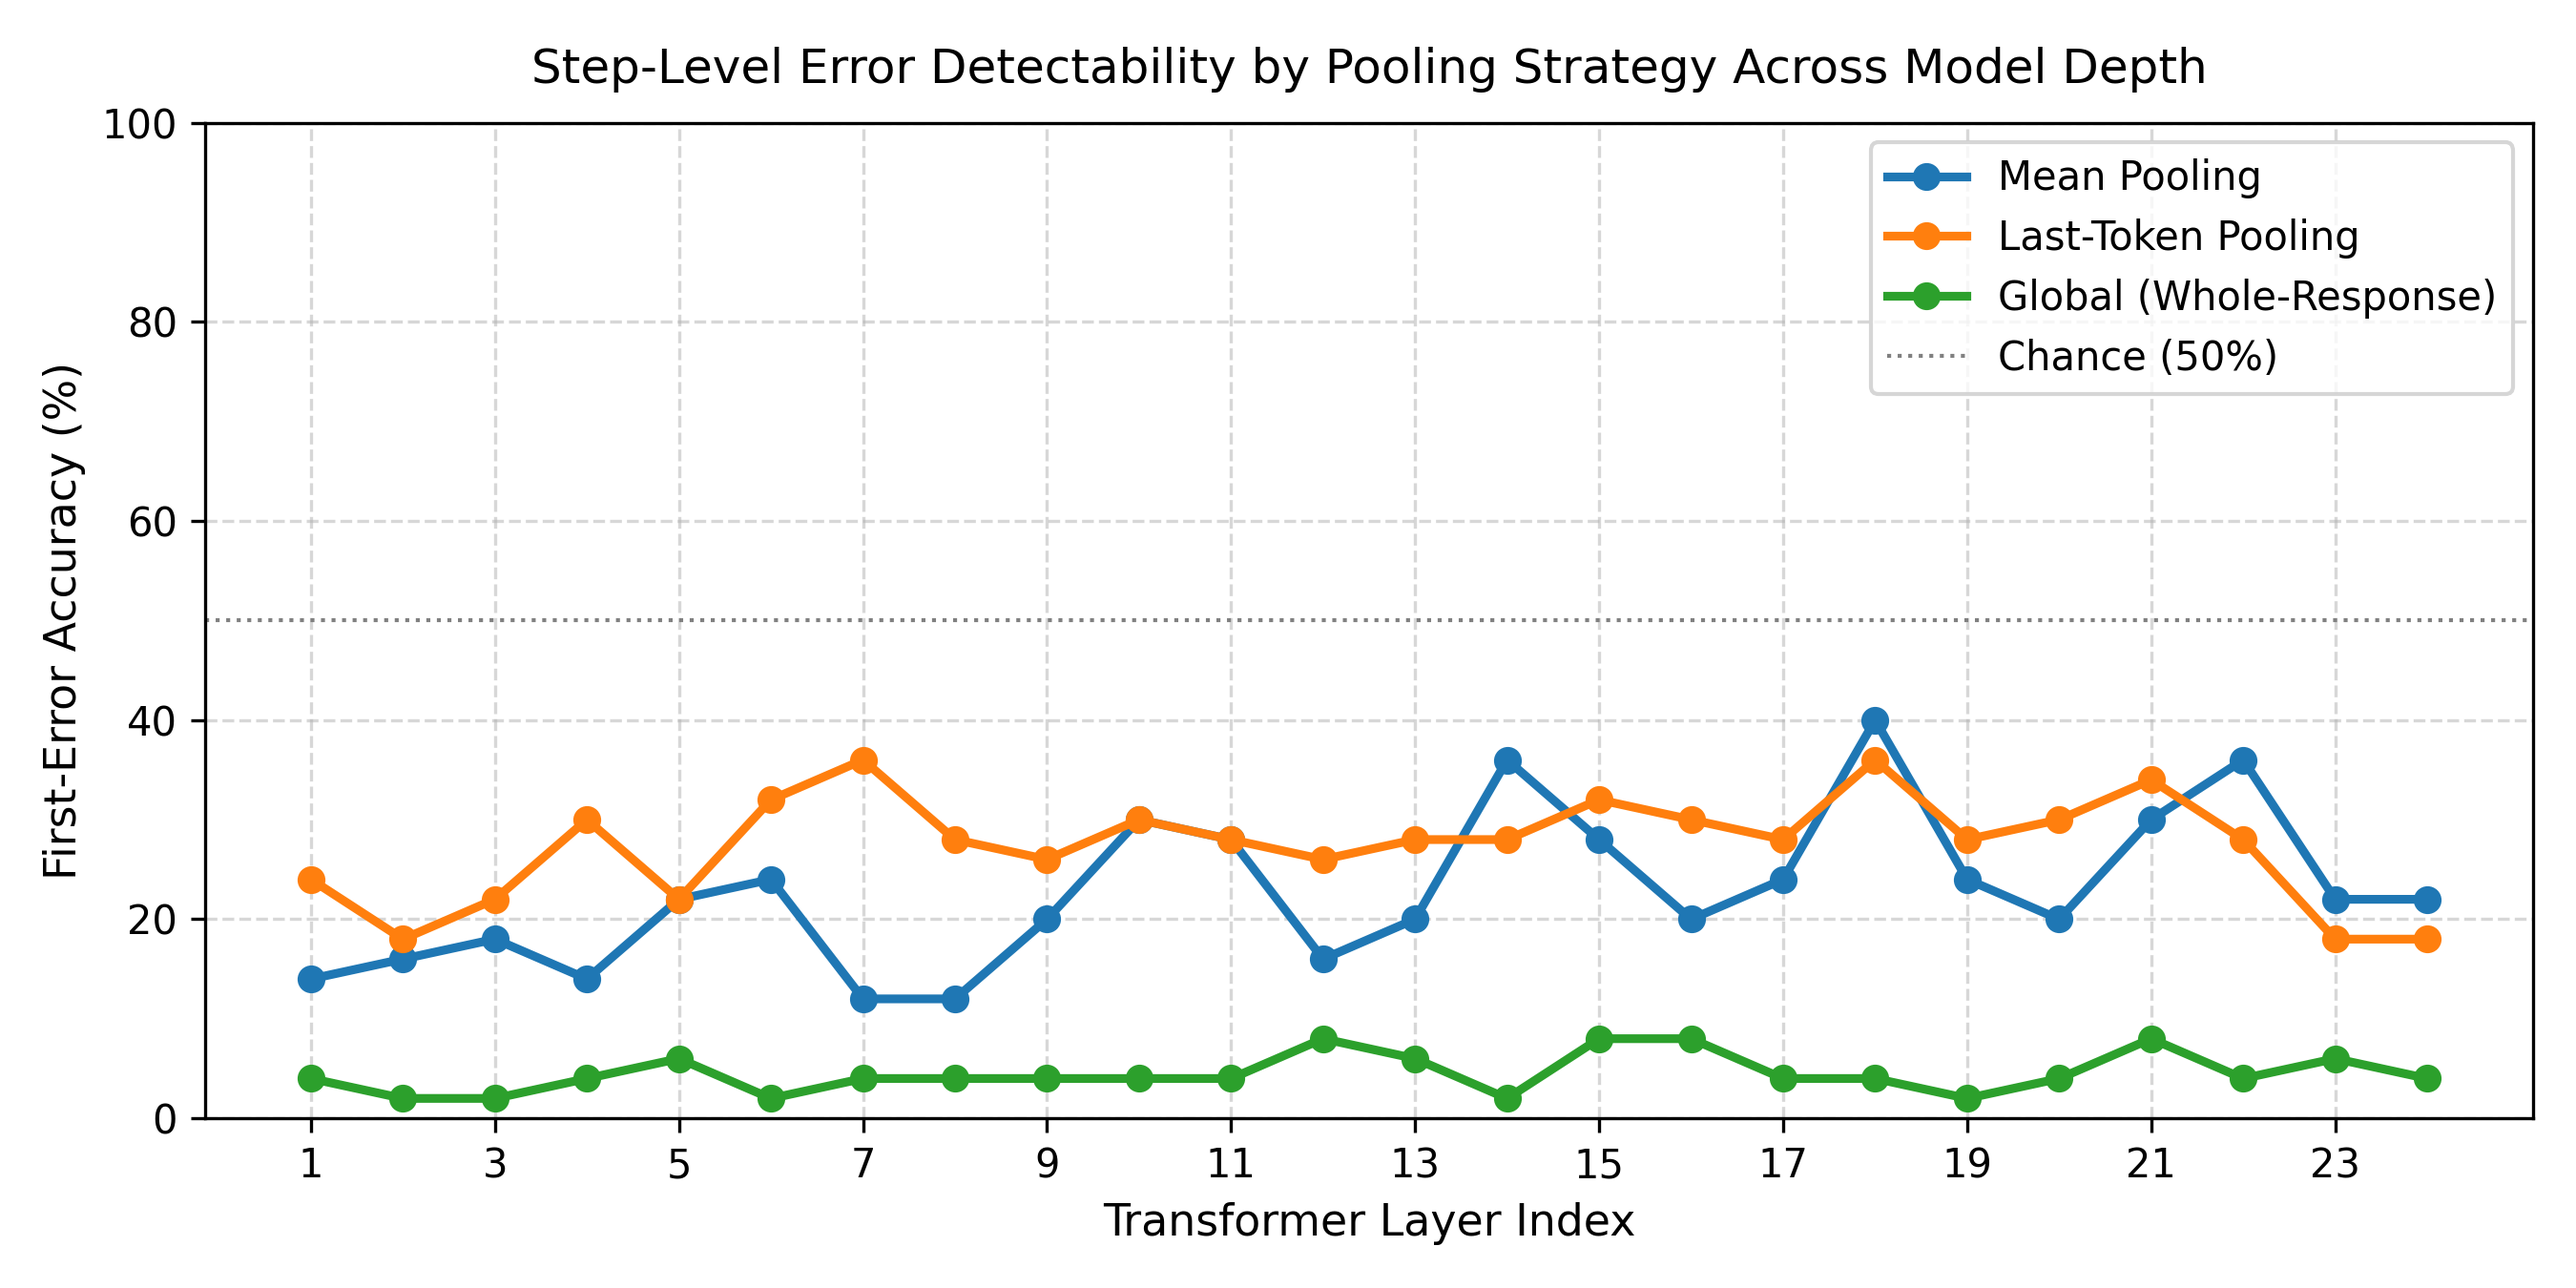
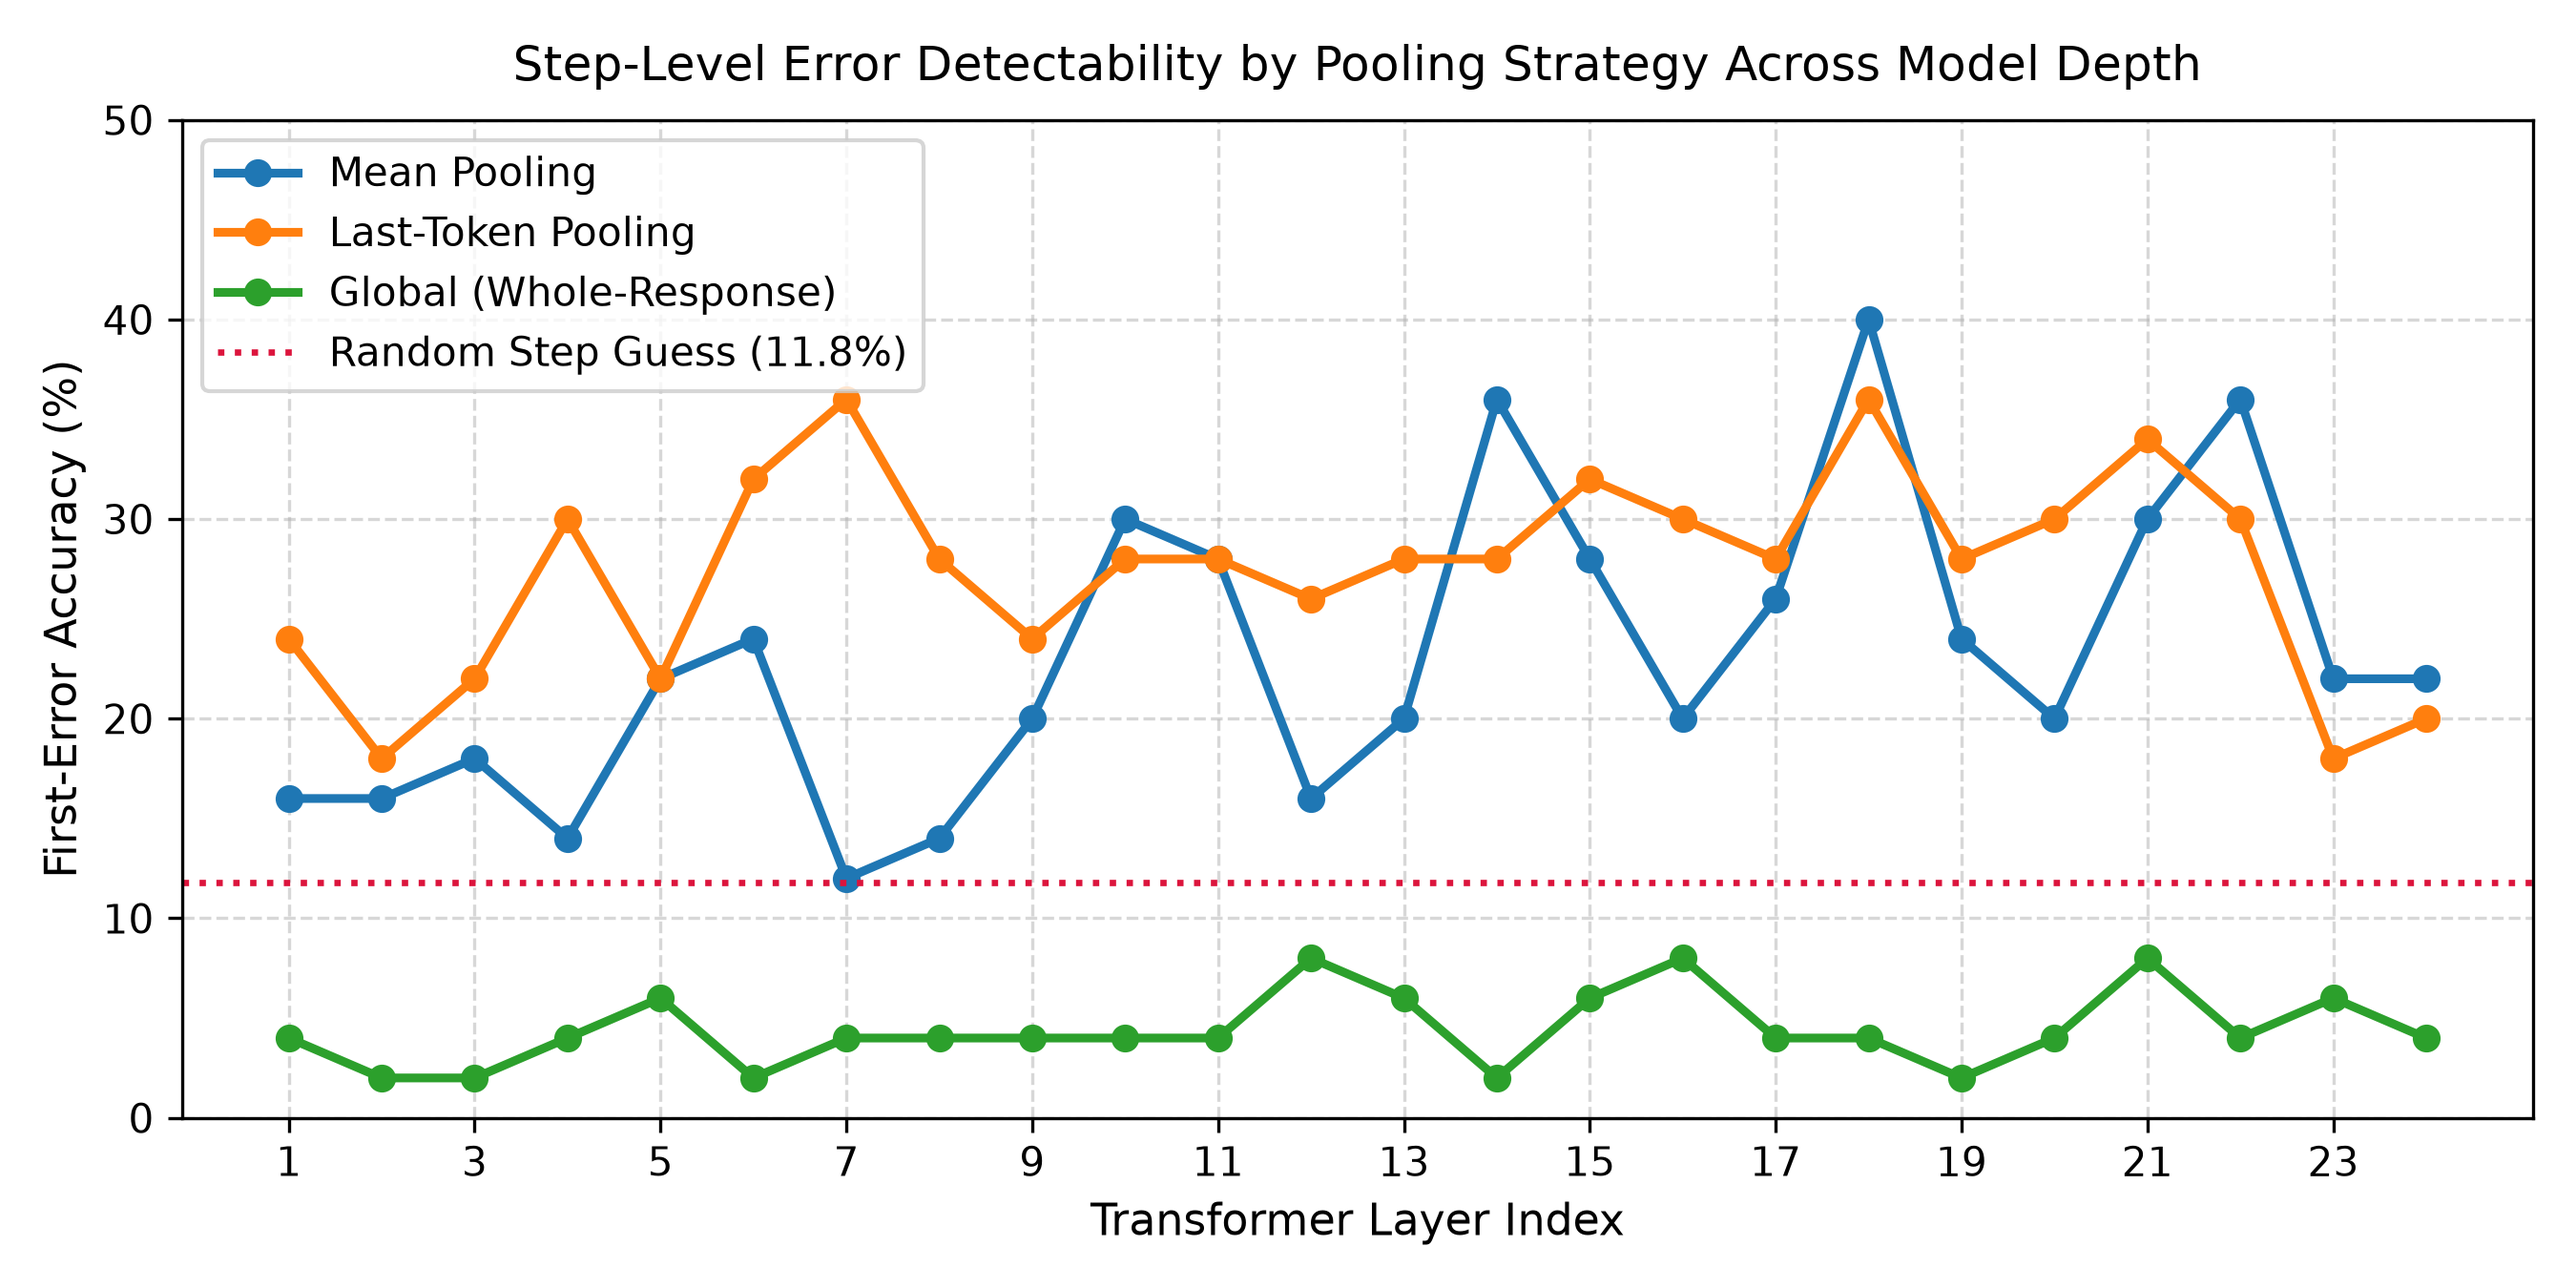
update baseline for graph

diff --git a/plot_pooling_ablation.py b/plot_pooling_ablation.py
@@ -1,8 +1,7 @@
 """
 plot_pooling_ablation.py
-------------------------
 Member 1: Spatial & Pooling Dynamics Track
-Step-INSPECTOR project (AI60213, IIT Kharagpur)
+Step-INSPECTOR project (AI60213)
 
 Plots the Mean vs. Last-token vs. Global pooling ablation across all 24
 layers of Qwen2.5-0.5B-Instruct, producing a figure for the ICLR report
@@ -38,10 +37,16 @@ def main():
     n_layers = train_cached["step_embeddings_mean"].shape[1]
     layers = list(range(1, n_layers + 1))
 
-    data_by_strategy = {s: {"fe_acc": [], "verdict_acc": []} for s in strategies}
+    data_by_strategy = {s: {"fe_acc": [], "verdict_acc": [], "joint_acc": []} for s in strategies}
     for r in results:
         data_by_strategy[r.strategy]["fe_acc"].append(r.first_error_acc)
         data_by_strategy[r.strategy]["verdict_acc"].append(r.verdict_acc)
+        data_by_strategy[r.strategy]["joint_acc"].append(r.joint_acc)
+
+    # Compute exact random step-guess baseline on faulty test examples: E[1 / (num_steps + 1)]
+    faulty_mask = test_cached["gold_first_errors"] > 0
+    num_valid_steps = (test_cached["step_token_lengths"][faulty_mask] > 0).sum(dim=1).float()
+    random_baseline = (1.0 / (num_valid_steps + 1.0)).mean().item() * 100
 
     # ---- Plot: First-Error Accuracy across layers ----
     plt.figure(figsize=(9, 4.5))
@@ -58,7 +63,13 @@ def main():
             label=labels[strategy],
         )
 
-    plt.axhline(y=50, color="gray", linestyle=":", lw=1, label="Chance (50%)")
+    plt.axhline(
+        y=random_baseline,
+        color="crimson",
+        linestyle=":",
+        lw=1.6,
+        label=f"Random Step Guess ({random_baseline:.1f}%)",
+    )
     plt.title(
         "Step-Level Error Detectability by Pooling Strategy Across Model Depth",
         fontsize=12,
@@ -67,23 +78,29 @@ def main():
     plt.xlabel("Transformer Layer Index", fontsize=11)
     plt.ylabel("First-Error Accuracy (%)", fontsize=11)
     plt.xticks(range(1, n_layers + 1, 2))
-    plt.ylim(0, 100)
+    plt.ylim(0, 50)
     plt.grid(True, linestyle="--", alpha=0.5)
-    plt.legend(frameon=True, loc="best")
+    plt.legend(frameon=True, loc="upper left")
     plt.tight_layout()
     plt.savefig("pooling_ablation.png", dpi=300)
-    print("Saved pooling ablation figure as 'pooling_ablation.png'")
+    print("\nSaved pooling ablation figure as 'pooling_ablation.png'")
 
     # ---- Print summary table ----
-    print("\nPooling Ablation Summary (Test Split, First-Error Accuracy):")
-    print(f"{'Strategy':<14} {'Best Layer':<12} {'Best FE-Acc (%)':<18} {'Mean FE-Acc (%)':<18}")
-    print("-" * 66)
+    print("\nPooling Ablation Summary (Test Split):")
+    print(
+        f"{'Strategy':<25} | {'Best Layer':<10} | {'Best FE-Acc (%)':<15} | "
+        f"{'Verdict Acc (%)':<15} | {'Joint Acc (%)':<13} | {'Mean FE-Acc (%)':<15}"
+    )
+    print("-" * 105)
     for strategy in strategies:
         fe_accs = data_by_strategy[strategy]["fe_acc"]
+        v_accs = data_by_strategy[strategy]["verdict_acc"]
+        j_accs = data_by_strategy[strategy]["joint_acc"]
         best_idx = int(max(range(len(fe_accs)), key=lambda i: fe_accs[i]))
         print(
-            f"{labels[strategy]:<14} {best_idx + 1:<12} "
-            f"{max(fe_accs):<18.1f} {sum(fe_accs) / len(fe_accs):<18.1f}"
+            f"{labels[strategy]:<25} | {best_idx + 1:<10} | "
+            f"{fe_accs[best_idx]:<15.1f} | {v_accs[best_idx]:<15.1f} | "
+            f"{j_accs[best_idx]:<13.1f} | {sum(fe_accs) / len(fe_accs):<15.1f}"
         )
 
 
